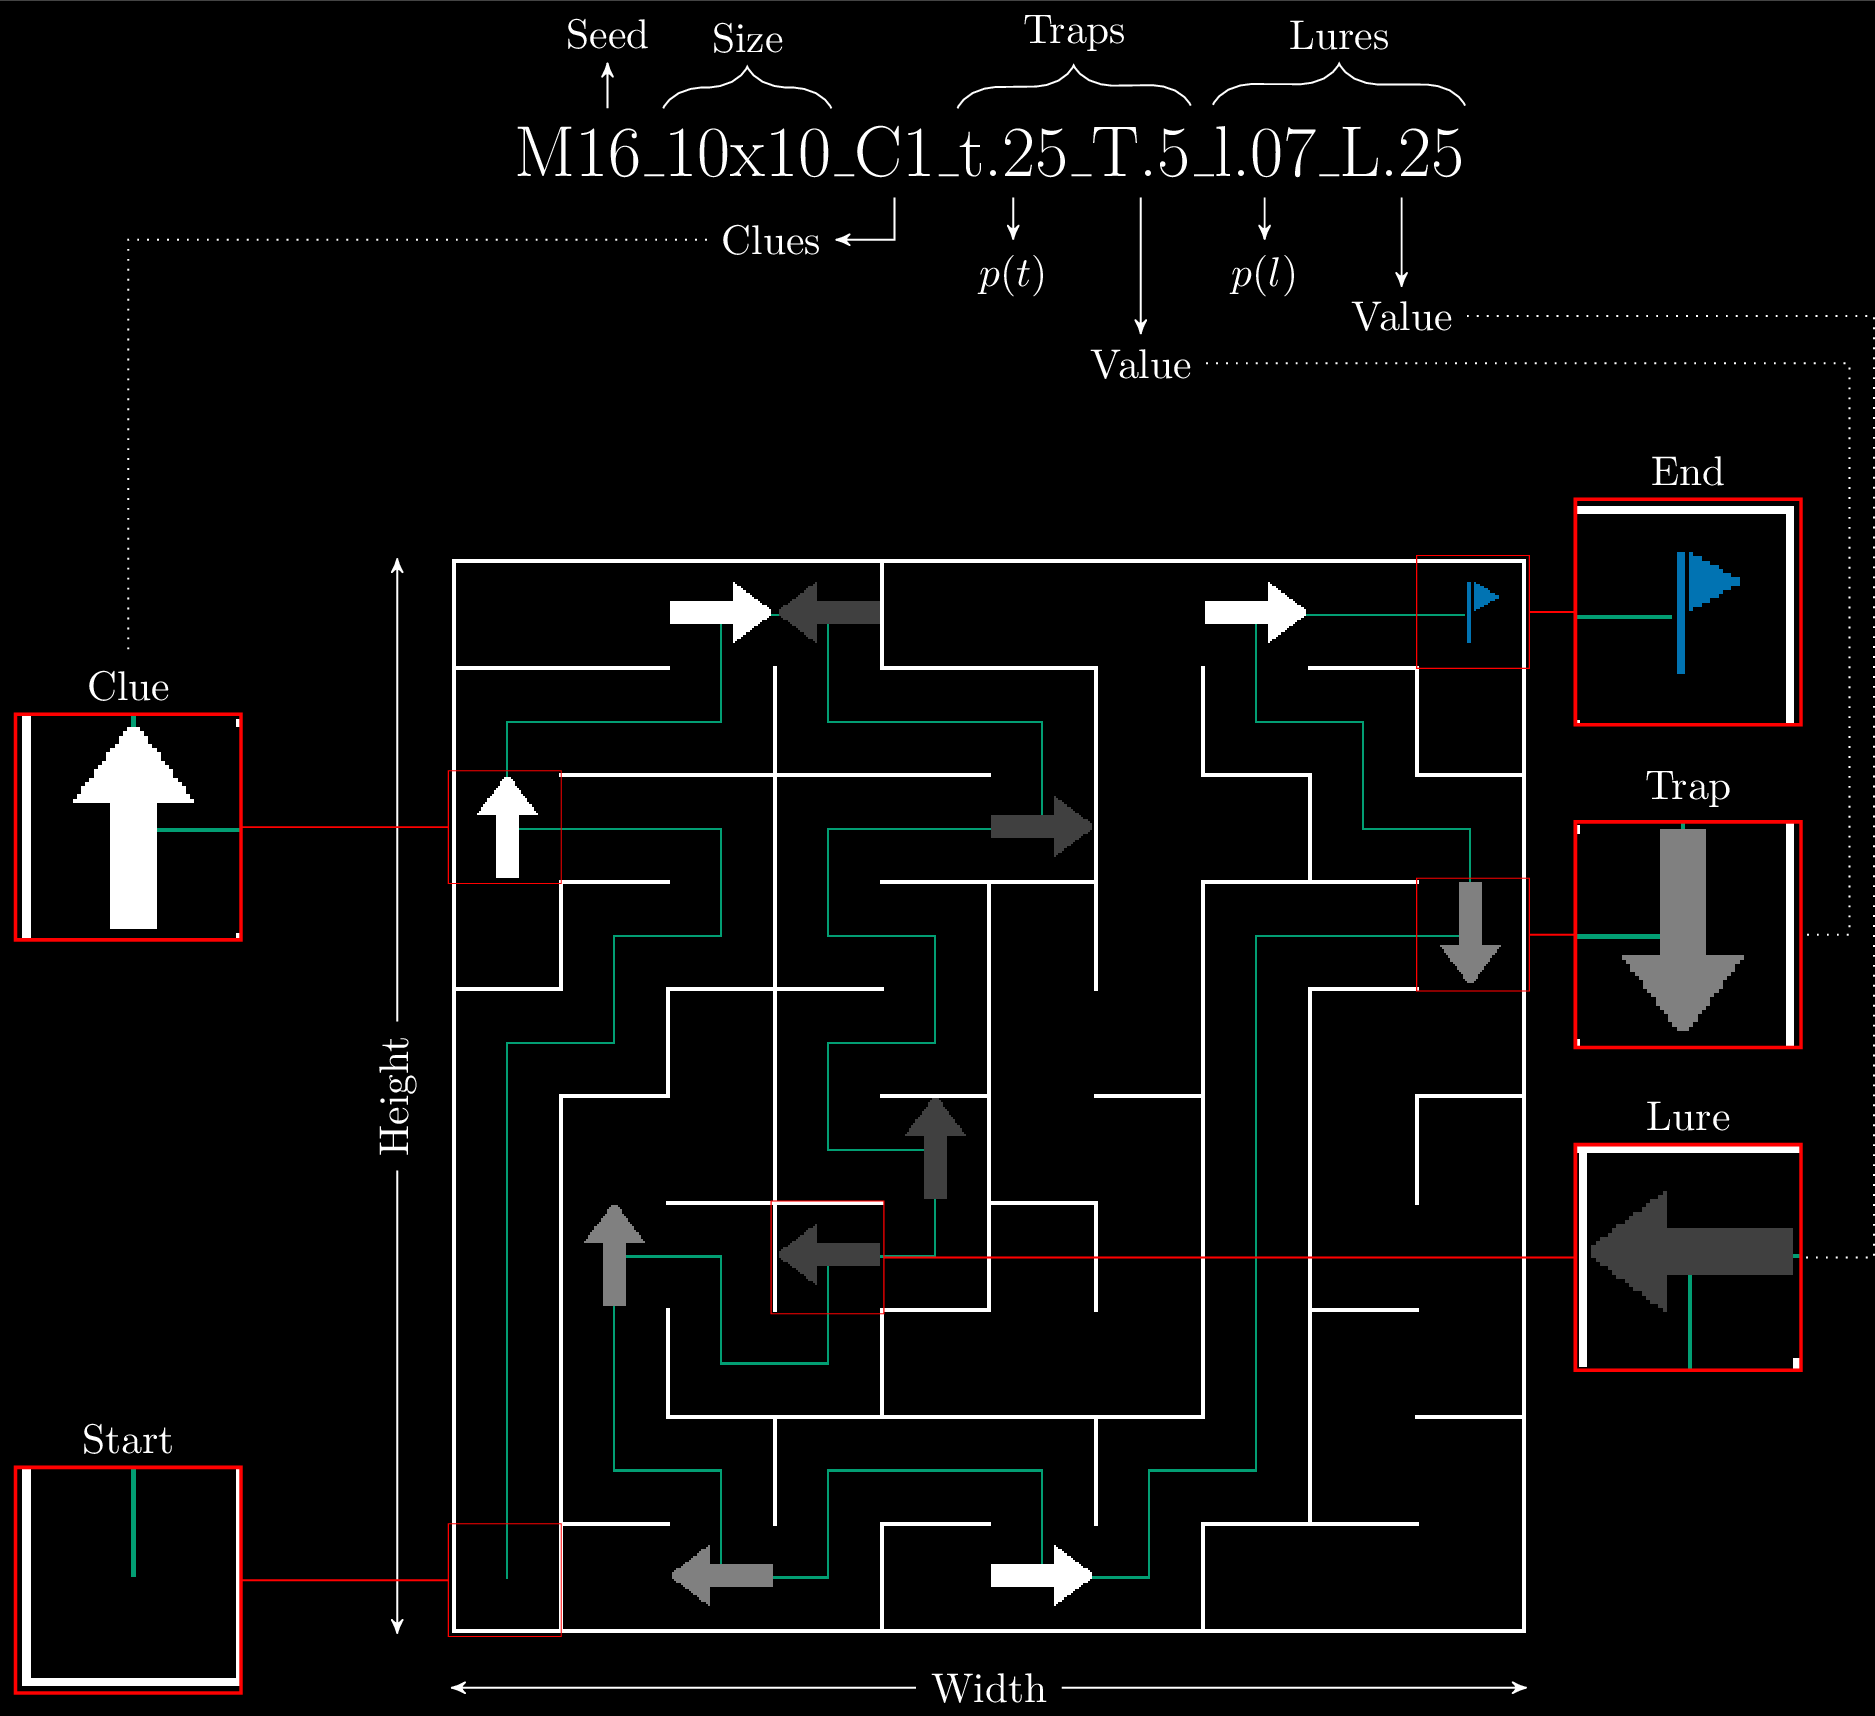
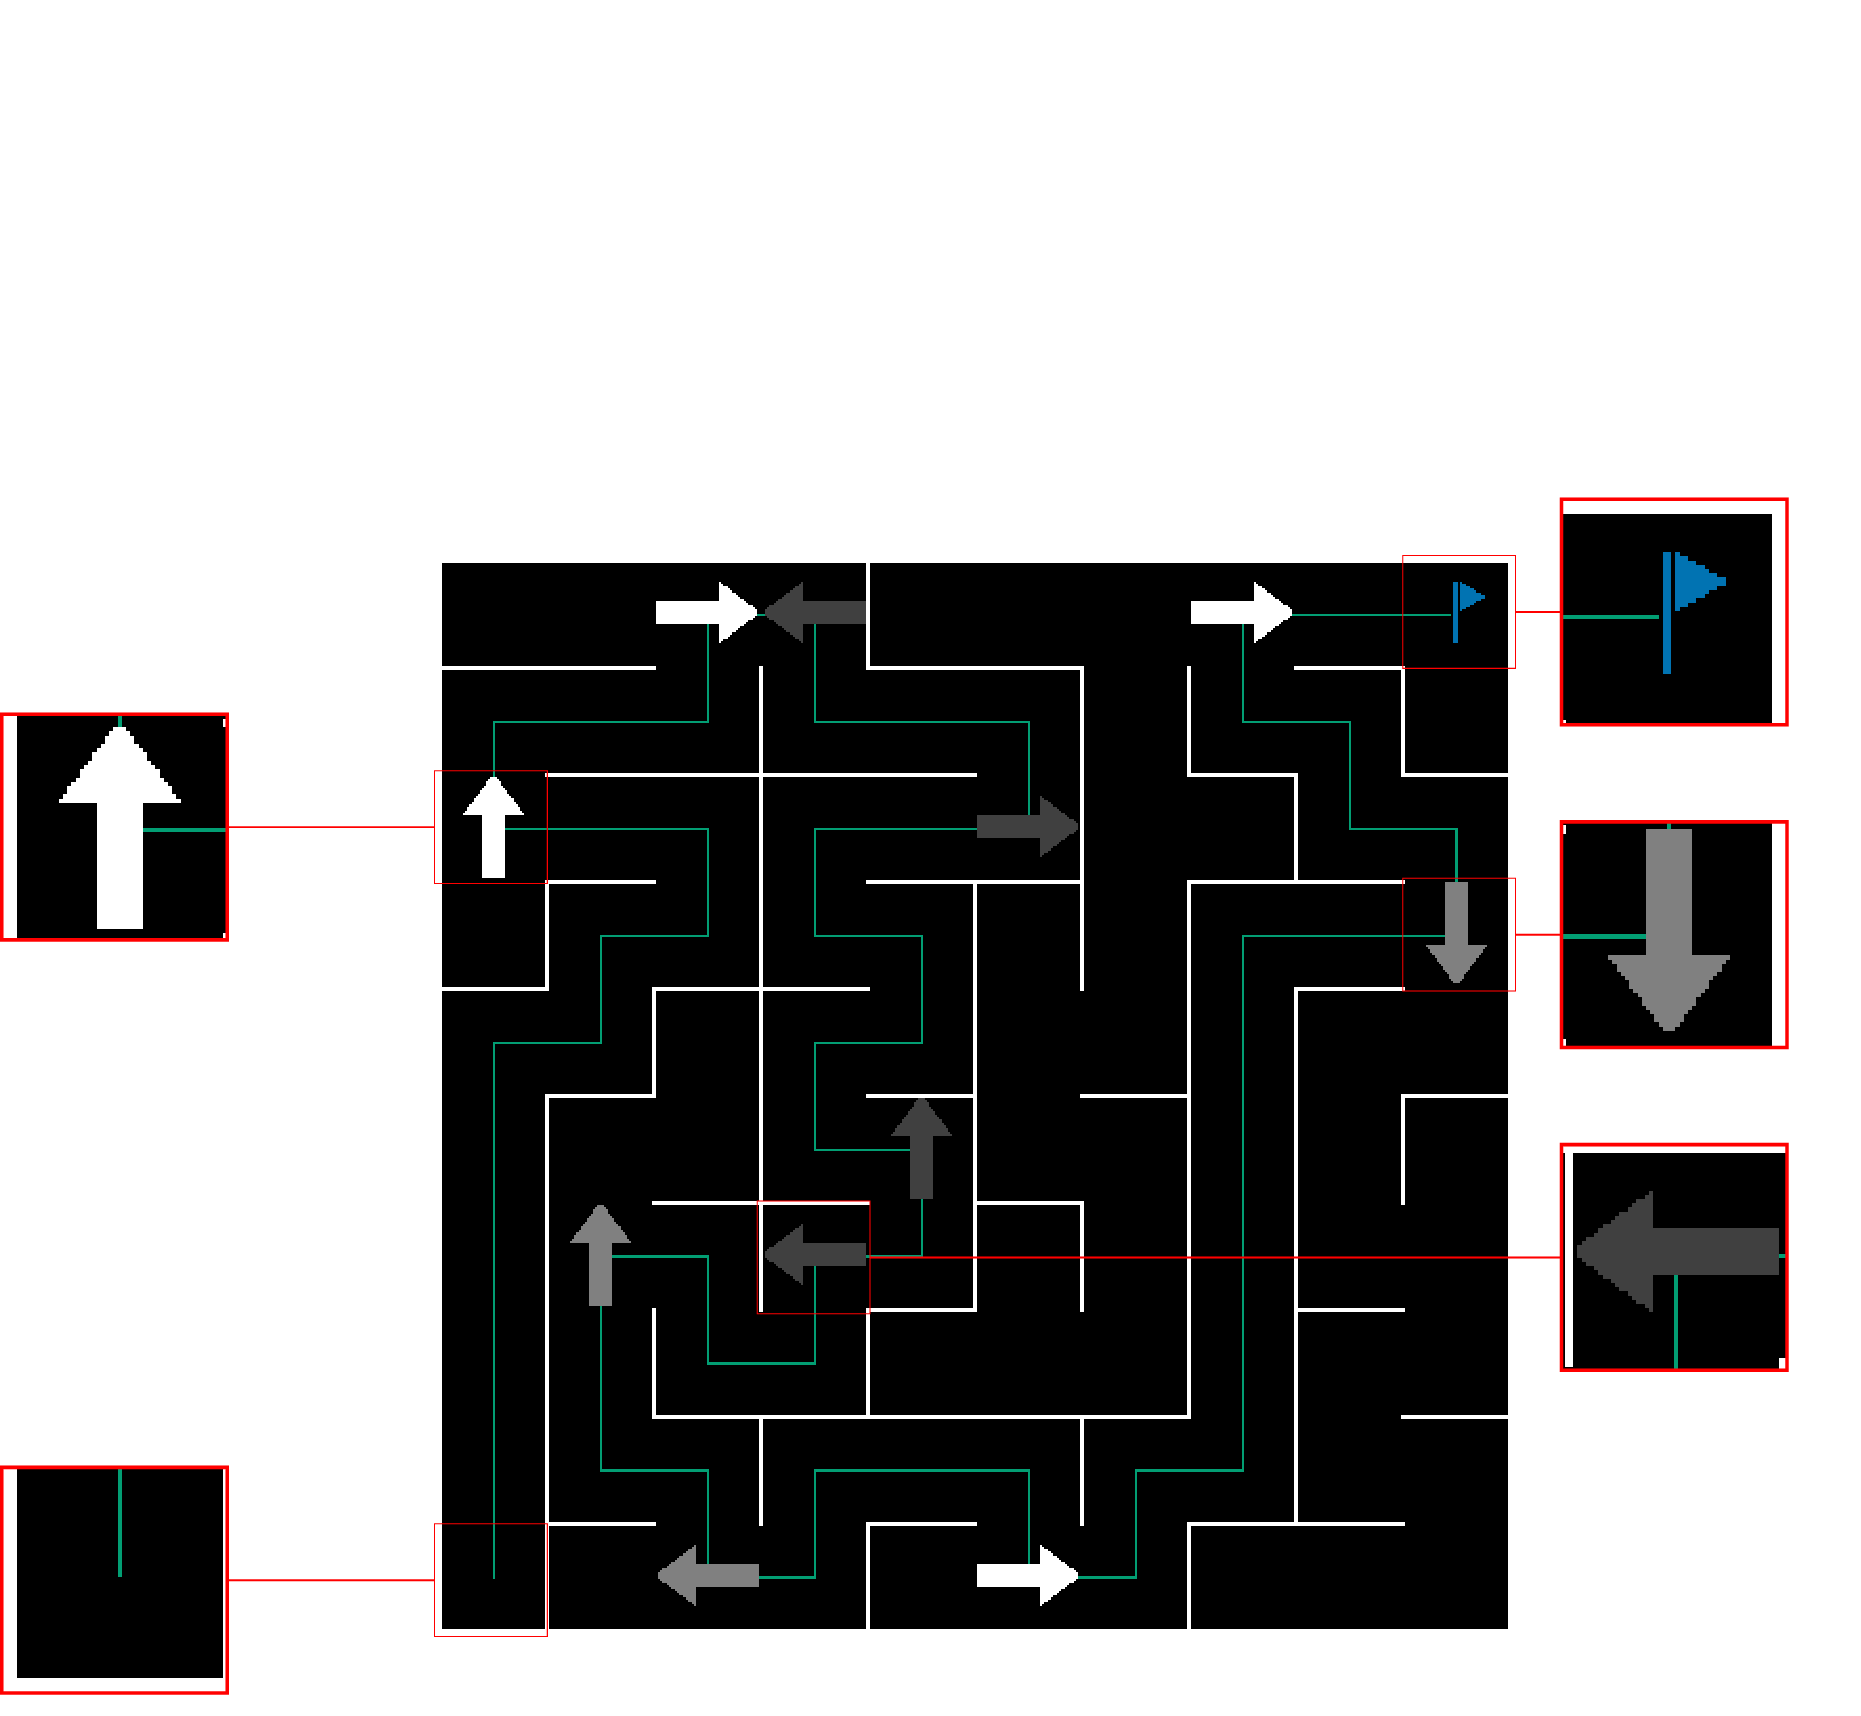
.

diff --git a/src/amaze/visu/viewer.py b/src/amaze/visu/viewer.py
@@ -1,4 +1,5 @@
 import functools
+import math
 import pprint
 from datetime import time
 from enum import IntFlag, Enum
@@ -6,7 +7,9 @@ from logging import getLogger
 from pathlib import Path
 from typing import Optional, Union
 
-from PyQt5.QtCore import QSettings, QTimer, Qt, QSignalBlocker, QObject, pyqtSignal, QObjectCleanupHandler
+from PyQt5.QtCore import QSettings, QTimer, Qt, QSignalBlocker, QObject, pyqtSignal, QObjectCleanupHandler, QRect, \
+    QPoint, QSize
+from PyQt5.QtGui import QImage, QShowEvent, QRegion, QPainter
 from PyQt5.QtWidgets import (QMainWindow, QHBoxLayout, QWidget, QLabel,
                              QVBoxLayout, QToolButton, QSpinBox, QGroupBox,
                              QStyle, QAbstractButton, QCheckBox, QComboBox,
@@ -121,7 +124,6 @@ class MainWindow(QWidget):
             self._trajectory_plotter = None
 
         # ----
-
         if runnable:
             if args:
                 self._generate_controller(args.controller)
@@ -132,6 +134,8 @@ class MainWindow(QWidget):
 
         self._update()
         self.buttons["play"].setFocus()
+
+        self._movie = _MovieRecorder(self, args.movie) if args.movie else None
 
         if self.robot_mode:  # Trimmed down version for the robot
             self._set_robot_mode_layout()
@@ -241,6 +245,9 @@ class MainWindow(QWidget):
 
         self.buttons["play"].setIcon(self.style().standardIcon(icon))
 
+        if self.playing and self._movie:
+            self._movie.step()
+
     def _think(self):
         if isinstance(self.controller, RandomController):
             self.controller.curr_pos = self.simulation.robot.pos
@@ -249,11 +256,15 @@ class MainWindow(QWidget):
 
     def _step(self):
         self.sections[self.Sections.CONFIG].setEnabled(False)
-        self.simulation.step(self.next_action)
+        reward = self.simulation.step(self.next_action)
+        self.next_action = self._think()
+
+        if reward is None:
+            return
+
         if self.simulation.done():
             self._done()
         else:
-            self.next_action = self._think()
             self._update()
 
     def _done(self):
@@ -270,6 +281,9 @@ class MainWindow(QWidget):
 
         if self._trajectory_plotter is not None:
             self._trajectory_plotter()
+
+        if self._movie:
+            self._movie.save()
 
         self.stop()
 
@@ -432,6 +446,11 @@ class MainWindow(QWidget):
     # == Layout/controls setup
     # =========================================================================
 
+    def showEvent(self, e):
+        super().showEvent(e)
+        if self._movie:
+            self._movie.step()
+
     def _set_robot_mode_layout(self):
         self._layout_holder.setLayout(self.layout)
 
@@ -514,6 +533,7 @@ class MainWindow(QWidget):
         widget("solution", QCheckBox, "Show solution")
         widget("robot", QCheckBox, "Show robot")
         widget("dark", QCheckBox, "Dark")
+        widget("colorblind", QCheckBox, "Colorblind")
 
         return layout
 
@@ -713,7 +733,7 @@ class MainWindow(QWidget):
                 new_value=self.config['control'].currentText(),
                 open_dialog=False))
 
-        for k in ["solution", "robot", "dark"]:
+        for k in ["solution", "robot", "dark", "colorblind"]:
             self.config["show_" + k].clicked.connect(
                 lambda v, k_=k: self.maze_w.update_config(**{k_: v}))
 
@@ -794,8 +814,9 @@ class MainWindow(QWidget):
         config.setValue('robot', self._robot_data().__dict__)
 
         config.beginGroup("show")
-        for k in MazeWidget.config_keys():
-            config.setValue(k, int(self.config["show_" + k].isChecked()))
+        for k in MazeWidget.default_config().keys():
+            if (w := self.config.get("show_" + k)) is not None:
+                config.setValue(k, int(w.isChecked()))
         config.endGroup()
 
         config.beginGroup("sections")
@@ -854,3 +875,62 @@ class MainWindow(QWidget):
 
         name = "control"
         self.config[name].setCurrentText(val(name).lower())
+
+
+class _MovieRecorder:
+    def __init__(self, viewer, path: Path):
+        self.viewer = viewer
+        self.path = path
+        self.folder = self.path.with_suffix('')
+        self.folder.mkdir(parents=True, exist_ok=True)
+        self.frames = []
+
+        max_timestep = self.viewer.simulation.deadline
+        self.step_format = (f"{{:0{math.ceil(math.log10(max_timestep))}d}}"
+                            f".png")
+
+    def _path(self, name=None):
+        if name:
+            name = name + "_"
+        else:
+            name = ""
+        name += self.step_format.format(self.viewer.simulation.timestep)
+        return str(self.folder.joinpath(name))
+
+    def step(self):
+        m_img = self.viewer.maze_w.pretty_render()
+        m_img.save(self._path("maze"))
+
+        size = m_img.width()
+
+        # robot = self.viewer.sections[MainWindow.Sections.ROBOT]
+        # img = QImage(robot.rect().size(), QImage.Format_ARGB32)
+        # img.fill(Qt.transparent)
+        # robot.render(img)
+        # img.save(str(self.folder.joinpath(f"robot_{step}.png")))
+
+        vision = self.viewer.visu["img_inputs"]
+        v_size = min(vision.width(), vision.height())
+        v_ratio = size / v_size
+        v_offset = (
+            (vision.width() - v_size) // 2,
+            (vision.height() - v_size) // 2
+        )
+
+        v_img = QImage(m_img.size(), m_img.format())
+        painter = QPainter(v_img)
+        painter.scale(v_ratio, v_ratio)
+        vision.render(painter, QPoint(0, 0),
+                      QRegion(*v_offset, v_size, v_size))
+        painter.end()
+        v_img.save(self._path("vision"))
+
+        img = QImage(2*size, size, m_img.format())
+        painter = QPainter(img)
+        painter.drawImage(0, 0, m_img)
+        painter.drawImage(size, 0, v_img)
+        painter.end()
+        img.save(self._path())
+
+    def save(self):
+        print("Saving")

diff --git a/src/amaze/bin/maze_viewer.py b/src/amaze/bin/maze_viewer.py
@@ -43,6 +43,8 @@ class Options:
 
     autostart: bool = True
 
+    movie: Optional[Path] = None
+
     render: Optional[Path] = None
     plot: Optional[Path] = None
     width: int = 256
@@ -80,8 +82,12 @@ class Options:
                             nargs='?', const='maze.png',
                             help="Render maze to requested file")
 
-        parser.add_argument("--trajectory", dest="plot", type=Path,
-                            nargs='?', const='trajectory.png',
+        parser.add_argument("--movie", dest="movie", type=Path,
+                            help="Render a video of the robot's strategy "
+                                 "to requested file (gif)")
+
+        parser.add_argument("--trajectory", dest="plot",
+                            type=Path, nargs='?', const='trajectory.png',
                             help="Plot trajectory of provided agent to"
                                  " provided path")
 
@@ -94,7 +100,6 @@ class Options:
         parser.add_argument("--dark", action='store_true',
                             help="Dark background?"
                                  " (identical to agent's perceptions)")
-
         parser.add_argument("--colorblind", action='store_true',
                             help="Use colorblind-friendly colormaps")
 
@@ -133,6 +138,9 @@ def main(sys_args: Optional[Sequence[str]] = None):
     if not args.controller:
         args.autostart = False
 
+    if args.movie:
+        args.autostart = True
+
     if args.eval:
         if args.render and len(args.render.parts) == 1:
             args.render = args.eval.joinpath(args.render)
@@ -161,7 +169,8 @@ def main(sys_args: Optional[Sequence[str]] = None):
                                 ),
                                 width=args.width)
             if widget.draw_to(args.render):
-                logger.info(f"Saved {simulation.maze.to_string()} to {args.render}")
+                logger.info(f"Saved {simulation.maze.to_string()}"
+                            f" to {args.render}")
 
         if simulate:
             simulation.reset(save_trajectory=True)

diff --git a/docs/latex/maze/maze.tex b/docs/latex/maze/maze.tex
@@ -1,5 +1,4 @@
-\documentclass[convert]{standalone}
-\usepackage{amsmath}
+\documentclass{standalone}
 \usepackage{tikz}
 \usetikzlibrary{arrows, calc, decorations.pathreplacing, spy, tikzmark}
 \newenvironment{localtoimage}[3][]{%
@@ -16,18 +15,17 @@
 }
 \usepackage{substr}
 \IfSubStringInString{\detokenize{dark}}{\jobname}{
- \pagecolor{black}
+%  \pagecolor{black}
  \def\thecolor{white}
  \color{\thecolor}
 }{
  \def\thecolor{black}
 }
-
-\begin{document}
 \newcommand*{\ExtractCoordinateOld}[1]{%
  \path [transform canvas] (#1);
  \pgfgetlastxy{\XCoord}{\YCoord}%
 }
+\begin{document}
 \begin{tikzpicture}[>=stealth', remember picture]
  \def\scale{.75}
  \pgfmathsetmacro{\s}{.21 * \scale * \textwidth}

diff --git a/src/amaze/visu/widgets/maze.py b/src/amaze/visu/widgets/maze.py
@@ -204,6 +204,12 @@ class MazeWidget(QLabel):
         self._render(painter)
         return self._save_image(path, img, painter)
 
+    def pretty_render(self):
+        img, painter = self._image_drawer()
+        self._render(painter)
+        painter.end()
+        return img
+
     @classmethod
     def static_draw_to(cls, maze, path, size=None, **kwargs):
         width, height = cls.__compute_size(maze, size or maze.width * 15)

diff --git a/src/amaze/simu/simulation.py b/src/amaze/simu/simulation.py
@@ -201,12 +201,12 @@ class Simulation:
         collision = ((x != x_) + (y != y_))
         return collision
 
-    def step(self, action: Action):
+    def step(self, action: Action) -> Optional[float]:
         # logger.debug(f"{'-'*80}\n-- step {self.time()}")
 
         if self.data.control == "KEYBOARD" and \
                 not action and not self.robot.vel:
-            return
+            return None
 
         reward = 0
 

diff --git a/README.md b/README.md
@@ -1,9 +1,18 @@
 # AMaze
 
-A lightweight maze navigation task generator for sighted AI agents
+A lightweight maze navigation task generator for sighted AI agents.
 
-![maze sample](https://raw.githubusercontent.com/kgd-al/amaze/master/docs/latex/maze/maze_dark.png#gh-dark-mode-only)
-![maze sample](https://raw.githubusercontent.com/kgd-al/amaze/master/docs/latex/maze/maze_light.png#gh-light-mode-only)
+## Mazes
+
+AMaze is primarily a maze generator: its goal is to provide an easy way to 
+generate arbitrarily complex (or simple) mazes for agents to navigate in.
+
+Every maze can be described by a unique, human-readable string:
+
+![maze sample](https://raw.githubusercontent.com/kgd-al/amaze/master/docs/latex/maze/dark.png#gh-dark-mode-only)
+![maze sample](https://raw.githubusercontent.com/kgd-al/amaze/master/docs/latex/maze/light.png#gh-light-mode-only)
+
+## Agents
 
 ## Current state
 
